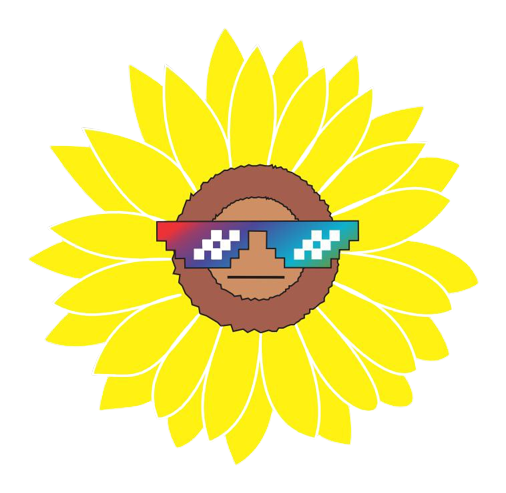
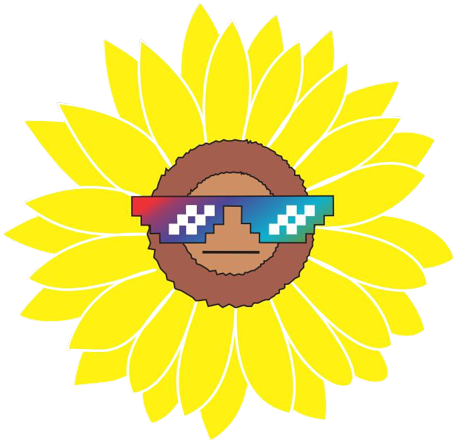
changes added

Changed region(s): [[0.0, 0.0, 1.0, 0.9977]]

diff --git a/src/Components/Roadmap.js b/src/Components/Roadmap.js
@@ -1,0 +1,61 @@
+import React from 'react';
+import './Roadmap.css'
+
+const Roadmap = () => {
+    return (
+    <div>
+        <div className='container border-yellow-400 rounded-md w-full relative md:mb-32'>
+            <h2 className='textGradient font-FredokaOne md:text-6xl mb-8 md:mb-14 text-3xl'>Roadmap</h2>
+                <p className='text-white text-md px-16 text-md mb-16 md:text-xl'>
+                We understand that there's no true manual to running a successful project, this why we have made this roadmap to fit our community standards, we'll keep on updating.
+                </p>
+                {/* Roadmap Wrapper */}
+           <div className='roadmap-wrapper flex-col justify-around space-y-10  '>
+            <div className='w-1 bg-yellow-400 rounded-md h-[580px] absolute md:left-[530px]'></div>
+            <div className='w-5 h-5 bg-white rounded-full absolute md:left-[522px] md:top-[262px]'></div>
+            <div className='w-5 h-5 bg-white rounded-full absolute md:left-[522px] md:top-[475px]'></div>
+            <div className='w-5 h-5 bg-white rounded-full absolute md:left-[522px] md:top-[690px]'></div>
+            {/* Phase 1/2  */}
+             <div className='md:flex gap-20 '>
+               <div className='w-1/2 h-auto border border-yellow-400 rounded-md p-4 transition duration-500 hover:bg-[#deb617] '>
+                    <h2 className='text-xl font-bold  text-white '>Phase 1</h2>
+                    <p className='text-white text-start py-2 text-md'>Build community: Here, we'll go about collaborating with existing stronger communities from different chains and preach love to their ecosystems by spreading the evangelism of Sui.</p>
+                </div>
+                <div className='w-1/2 h-auto border border-yellow-400 rounded-md p-4 transition duration-500 hover:bg-[#deb617] '>
+                    <h2 className='text-lg font-bold text-white'>Phase 2</h2>
+                    <p className='text-white text-start py-2 text-md'>Light Movement: Here, all lighters will get to experience the movement by unleashing the light out of the darkness. The Nextlight will be transformed on Sui mainnet launch</p>
+                </div>
+             </div>
+             {/* Phase 3/4 */}
+             <div className='md:flex gap-20'>
+               <div className='w-1/2 h-auto border border-yellow-400 rounded-md p-4 transition duration-500 hover:bg-[#deb617] '>
+                    <h2 className='text-xl font-bold  text-white '>Phase 3</h2>
+                    <p className='text-white text-start py-2 text-md'>Casino: There will be no boredom after the birth of the lighters, they will have to live and enjoy the moments of nature. The Nextlight will have their own custom-built game, a game for all. There'll be a casino consisting of roulette, flip coin and a coin multiplier. This will be our main focus.</p>
+                </div>
+                <div className='w-1/2 h-auto border border-yellow-400 rounded-md p-4 transition duration-500 hover:bg-[#deb617] '>
+                    <h2 className='text-lg font-bold text-white'>Phase 4</h2>
+                    <p className='text-white text-start py-2 text-md'>Rewards: There's no fun without rewards whereby 70% from our royalties will be shared to our holders, just for the fun of it. All our Holders will get to enjooooooy these benefits, just by holding our NFT which will also be your pass to everything that will be partaking from us.</p>
+                </div>
+             </div>
+             {/* Phase 3/4 end */}
+
+            {/* phase 5/6  */}
+             <div className='md:flex gap-20'>
+               <div className='w-1/2 h-auto border border-yellow-400 rounded-md p-4 transition duration-500 hover:bg-[#deb617] '>
+                    <h2 className='text-xl font-bold  text-white '>Phase 5</h2>
+                    <p className='text-white text-start py-2 text-md'>$Light: This will be the official economy power for the lighters. This will be spent on all the daily activities evolving on our metaverse.</p>
+                </div>
+                <div className='w-1/2 h-auto border border-yellow-400 rounded-md p-4 transition duration-500 hover:bg-[#deb617] '>
+                    <h2 className='text-lg font-bold text-white'>Phase 6</h2>
+                    <p className='text-white text-start py-2 text-md'>Dark light: This will be our Gen 2 collection for the Nextlight.</p>
+                </div>
+             </div>
+             {/* phase 5/6 end */}
+            </div>
+            {/* wrapper end */}
+        </div>
+    </div>
+    );
+};
+
+export default Roadmap;

diff --git a/src/Components/Navber.js b/src/Components/Navber.js
@@ -5,41 +5,48 @@ import './Navber.css'
 const Navber = () => {
     return (
       <div className="navbar bg-base-100 mt-6">
-        <div className="navbar-start">
-          <div className="dropdown">
+        <div className='navber-start text-end block md:hidden'>
+                <img className='w-68' src={logo} alt="" />
+            </div>
+            <div className="navbar-start mr-52 md:hidden">
+        </div>
+        <div className="navbar-end">
+          <div className="dropdown relative">
             <label tabIndex={0} className="btn lg:hidden">
               <svg xmlns="http://www.w3.org/2000/svg" className="h-6 w-6 text-white" fill="none" viewBox="0 0 24 24" stroke="currentColor"><path strokeLinecap="round" strokeLinejoin="round" strokeWidth="2" d="M4 6h16M4 12h8m-8 6h16" /></svg>
             </label>
-            
-            <ul tabIndex={0} className="menu menu-compact dropdown-content mt-3 p-2 shadow bg-[#080b23] rounded-box w-52">
-              <li ><a href='#home'   className='font-Poppins textGradient'>Home</a></li>
-              <li ><a href='#about ' className='font-Poppins textGradient'>About Us</a></li>
-              <li ><a href='#lore '  className='font-Poppins textGradient'>Lore</a></li>
-              <li ><a href='#gallery' className='font-Poppins textGradient'>Gallery</a></li>
-              <li ><a href='#faq '   className='font-Poppins textGradient'>FAQ</a></li>
+            <ul tabIndex={0} className="menu menu-compact dropdown-content absolute left-[-55px] mt-1 shadow bg-[#080b23] rounded-box w-36 pl-4 pb-2 pt-1">
+              <li ><a href='#home'   className='font-Poppins  text-sm textGradient'>Home</a></li>
+              <li ><a href='#about ' className='font-Poppins  text-sm textGradient'>About</a></li>
+              <li ><a href='#lore '  className='font-Poppins  text-sm textGradient'>Lore</a></li>
+              <li ><a href='#gallery' className='font-Poppins text-sm textGradient'>Gallery</a></li>
+              <li ><a href='#faq '   className='font-Poppins  text-sm textGradient'>FAQ</a></li>
             </ul>
-          </div>
-
-          <div className='hidden md:block'>
-            <img className='w-14 ps-24' src={logo} alt=""/>
           </div>
         </div>
 
         {/* Desktop menu */}
-        <div className="navbar-end hidden lg:flex ">
-          <ul className="menu menu-horizontal px-1">
+
+        <div className='navbar-start hidden md:block '>
+            <img className='w-12' src={logo} alt=""/>
+        </div>
+
+        <div className="navbar-center">
+    <a className="btn btn-ghost normal-case text-xl">daisyUI</a>
+  </div>
+
+        <div className="navbar-end hidden md:flex  ">
+           <ul className="menu menu-horizontal px-1">
               <li><a href='#home'   className='textGradient mr-2 font-Poppins'>Home</a></li>
-              <li><a href='#about'  className='textGradient mr-2 font-Poppins'>About Us</a></li>
+              <li><a href='#about'  className='textGradient mr-2 font-Poppins'>About</a></li>
               <li><a href='#lore'    className='textGradient mr-2 font-Poppins'>Lore</a></li>
               <li><a href='#gallery' className='textGradient mr-2 font-Poppins'>Gallery</a></li>
               <li><a href='#faq'     className='textGradient font-Poppins'>FAQ</a></li>
-          </ul>
+           </ul>
         </div>
-        <div className="navbar-end md:hidden">
-        </div>
-         <div className='navber-start text-end block md:hidden'>
-            <img className='w-14' src={logo} alt="" />
-          </div>
+
+        
+
       </div>
     );
 };

diff --git a/src/Components/Lore.js b/src/Components/Lore.js
@@ -1,24 +1,29 @@
 import React from 'react';
 import { Link } from 'react-router-dom';
-import image3 from '../Images/imageRev.png'
+import lore from '../Images/lore.jpg'
 
 const Lore = () => {
     return (
-        <div id='lore' className=''>
+        <div id='lore' className='my-60'>
             
-<div className="hero min-h-screen bg-base-200">
-  <div className="hero-content flex-col md:gap-x-20 lg:flex-row-reverse text-center mx-auto">
-    <img  data-aos-duration="1000" data-aos="fade-up" src={image3} alt='' className="max-w-xs md:max-w-md rounded-lg mb-4 md:mb-0 " />
-    <div data-aos-duration="1000" data-aos="fade-right">
-      <h1 className="text-4xl md:text-5xl font-bold textGradient text-center md:text-start font-FredokaOne py-3 md:py-0">What is lore?</h1>
-      <p className="py-6 text-white text-center md:text-start font-Poppins">Long ago the nextlights of planet Suiland lived in harmony with the essence that forged them. Theirs was the most peaceful planet of their dimension but all went to ruin on the day that darkness arrived.
-      
-      Its sudden presence was unexplainable. The nextlights were shaken with fear for this massive thing they didn't understand. They were driven into caves and holes underground, abandoning their homes and towers as darkness encroached on their land... 
-       <Link to='https://medium.com/@thelightonsui/lore-aa317a3b4c8a' target="_blank" className='text-md underline textGradient'> Read more</Link></p>
-      
-    </div>
-  </div>
-</div>
+            {/* The button to open modal */}
+          <label htmlFor="lore-modal-6" className=" px-16 md:px-28 py-4 rounded-md border border-yellow-400 cursor-pointer textGradient hover:text-black  hover:bg-yellow-400 text-3xl font-FredokaOne">Lore</label>
+          
+
+          {/* Put this part before </body> tag */}
+          <input type="checkbox" id="lore-modal-6" className="modal-toggle" />
+          <div className="modal modal-bottom sm:modal-middle  text-white">
+            <div className="modal-box bg-[#150529] border  ">
+              <img src={lore} alt="" />
+              <h3 className="text-lg">Lore</h3>
+              <p className="py-6 text-white text-center md:text-start font-Poppins text-md">Long ago the nextlights of planet Suiland lived in harmony with the essence that forged them. Theirs was the most peaceful planet of their dimension but all went to ruin on the day that darkness arrived.
+              Its sudden presence was unexplainable. The nextlights were shaken with fear for this massive thing they didn't understand. They were driven into caves and holes underground, abandoning their homes and towers as darkness encroached on their land... 
+              <Link to='https://medium.com/@thelightonsui/lore-aa317a3b4c8a' target="_blank" className='text-md underline textGradient'> Read more</Link></p>
+              <div className="modal-action">
+                <label htmlFor="lore-modal-6" className="btn border border-yellow-400">Awesome</label>
+              </div>
+            </div>
+          </div>
 
         </div>
     );

diff --git a/src/Components/Banner.js b/src/Components/Banner.js
@@ -1,5 +1,5 @@
 import React from 'react';
-import banner from '../Images/bclean.png'
+import banner from '../Images/bclean.jpg'
 import './Banner.css'
 import AOS from 'aos';
 import 'aos/dist/aos.css'; 
@@ -12,18 +12,16 @@ const Banner = () => {
   
     return (
 <div className='mb-20 md:mb-0 '>
-    <div className="hero md:mt-10 ">
-    <div className="hero-content flex-col lg:flex-row-reverse md:gap-32 relative">
-    {/* <div className='glowing-circle absolute bottom-[370px] md:bottom-[165px] md:left-[760px] light'>
-      
-    </div> */}
-    <img src={banner} alt='' className="max-w-xs md:max-w-md rounded-lg z-10 "/>
+    <div className="hero md:mt-14 ">
+    <div className="hero-content flex-col lg:flex-row-reverse md:gap-10 relative">
+    
+    <img src={banner} alt='' className="floating max-w-xs md:max-w-md rounded-lg z-10 "/>
     
     
     <div data-aos-duration="2000" data-aos="fade-right" className='md:text-start'>
       <h1 className="md:text-6xl text-4xl textGradient pb-3 md:mb-2 mt-6 md:mt-0 font-FredokaOne text">The Nextlight</h1>
-      <p className="py-3 mb-4  text-white text-md font-Poppins">The Nextlight is an NFT collection of sunflowers, it symbolizes unwavering faith and unconditional love</p>
-      <Link target="_blank" to='https://twitter.com/thelightonsui' className="px-4 py-2 rounded-md border border-yellow-400 text-white btnGradient transition-all text-md font-Poppins bg-gradient-to-r from-[#FF8008] to-[#FFF310]">Start collection</Link>
+      <p className="py-3 mb-4  text-white text-md font-Poppins">The Nextlight is the first prolific NFT collection of sunflowers built on Suinetwork and for the community of Sui.</p>
+      <Link target="_blank" to='https://twitter.com/thelightonsui' className="px-4 py-2 rounded-md border border-yellow-400 text-white btnGradient transition-all text-md font-Poppins bg-gradient-to-r from-[#FF8008] to-[#FFF310]">you're Prolific!</Link>
     </div>
 
   </div>

diff --git a/src/Components/Banner.css b/src/Components/Banner.css
@@ -1,83 +1,24 @@
 .text{
     font-weight: 900;
-    
 }
 .textGradient{
-
   background: linear-gradient(87deg, #FFF112 51%, #ffb108 82%);
   -webkit-background-clip: text;
   -webkit-text-fill-color: transparent;
 }
-/* 
-.glowing-circle {
-  z-index: 0;
-  border-radius: 50%;
-    background-color: #1D0E28;
-    box-shadow: 0 0 60px 30px #FFF112, 0 0 100px 60px #ffb108, 0 0 140px 90px #FFF112;   
-  }
 
-  
-  .light {
-    width:130px;
-    height:130px;
-    
-    -webkit-animation-name: flicker;
-            animation-name: flicker;
-    -webkit-animation-duration: 18s;
-            animation-duration: 18s;
-    -webkit-animation-iteration-count: infinite;
-            animation-iteration-count: infinite;
-    -webkit-animation-timing-function: linear;
-            animation-timing-function: linear;
-  }
-  
-  @keyframes flicker {
-    from {
-        opacity: 0.5;
-      }
-     
-      10% {
-        opacity: 0.65;
-      }
-      15%{
-        opacity: 0.35;
-      }
-     
-      20% {
-        opacity: 0.5;
-      }
-      30% {
-        opacity: 0.30;
-      }
-      35%{
-        opacity: 0.10;
-      }
-      40% {
-        opacity: 0.5;
-      }
-      50% {
-        opacity: 0.20;
-      }
-      60% {
-        opacity: 0.5;
-      }
-      70% {
-        opacity: 0.5;
-      }
-      80% {
-        opacity: .65;
-      }
-      90% {
-        opacity: 0.6;
-      }
-      to {
-        opacity: 0.3;
-      }
-  } */
+.floating { 
+  animation-name: floating;
+  animation-duration: 3s;
+  animation-iteration-count: infinite;
+  animation-timing-function: ease-in-out;
+  margin-left: 30px;
+  margin-top: 5px;
+}
 
-  /* @media only screen and (max-width: 600px) {
-    .light{
-      height: 40px;
-      width: 40px;
-    }
-  } */
+@keyframes floating {
+  0% { transform: translate(0,  0px); }
+  50%  { transform: translate(0, 15px); }
+  100%   { transform: translate(0, -0px); }   
+}
+

diff --git a/src/Components/Home.js b/src/Components/Home.js
@@ -6,6 +6,7 @@ import Footer from './Footer';
 import Gallery from './Gallery';
 import Lore from './Lore';
 import Navber from './Navber';
+import Roadmap from './Roadmap';
 import Team from './Team';
 
 const Home = () => {
@@ -16,8 +17,9 @@ const Home = () => {
             <Banner></Banner>
             <About></About>
             <Gallery></Gallery>
-            <Team></Team>
             <Lore></Lore>
+            <Roadmap></Roadmap>
+            <Team></Team>
             <Faq></Faq>
             </div>
             <Footer></Footer>

diff --git a/src/Components/Team.js b/src/Components/Team.js
@@ -5,7 +5,7 @@ import team from '../Images/logo.png'
 const Team = () => {
     return (
         <div className='my-16 mx-4 md:mx-0 '>
-           <h2 className='textGradient pb-3 text-4xl md:text-5xl text-center font-FredokaOne font-bold'>Superheros of Nextlight</h2>
+           <h2 className='textGradient pb-3 text-4xl md:text-5xl text-center font-FredokaOne font-bold'>Nextlight Gallery</h2>
         <div className='container grid grid-cols-1 md:grid-cols-3 lg:grid-cols-4 md:gap-4 my-16 space-y-12 md:space-y-0'>
 
         

diff --git a/src/Components/Faq.js b/src/Components/Faq.js
@@ -3,6 +3,7 @@ import React from 'react';
 const Faq = () => {
     return (
     <div id='faq' className='my-16  mx-auto '>
+      <h3 className='textGradient font-FredokaOne md:text-6xl text-3xl text-center my-10'>FAQ</h3>
 
     <div tabIndex={0} 
     data-aos-duration="1000" data-aos="fade-up"

diff --git a/src/Components/Roadmap.css b/src/Components/Roadmap.css
@@ -1,0 +1,10 @@
+
+/* .roadmap-wrapper{
+    background-color: #fff;
+} */
+/* .effect:hover{
+    background-color:#efc41650;
+    transition: 3000s ease-in-out;
+
+
+} */
